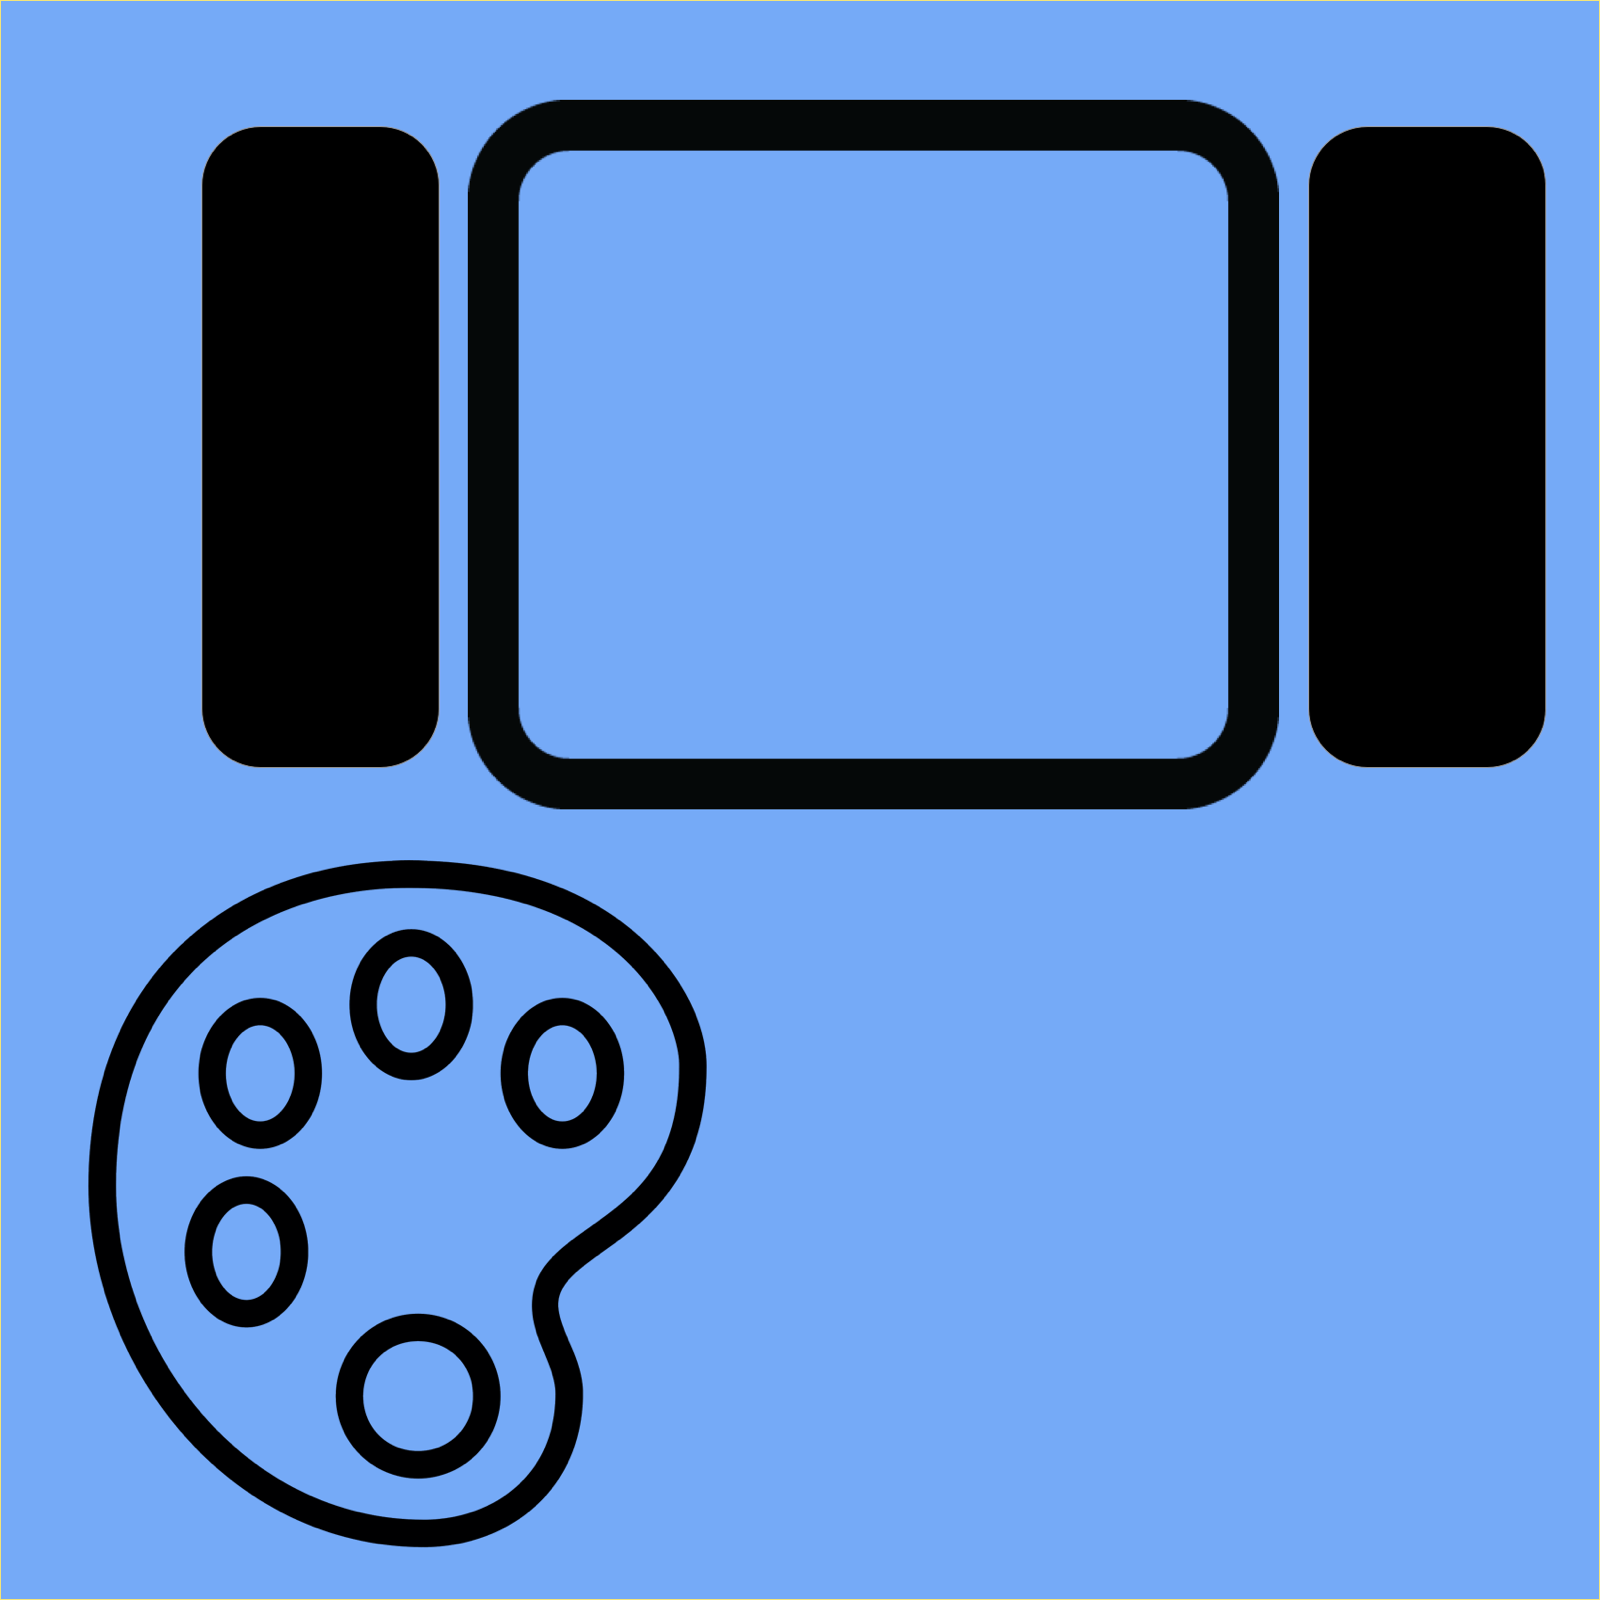
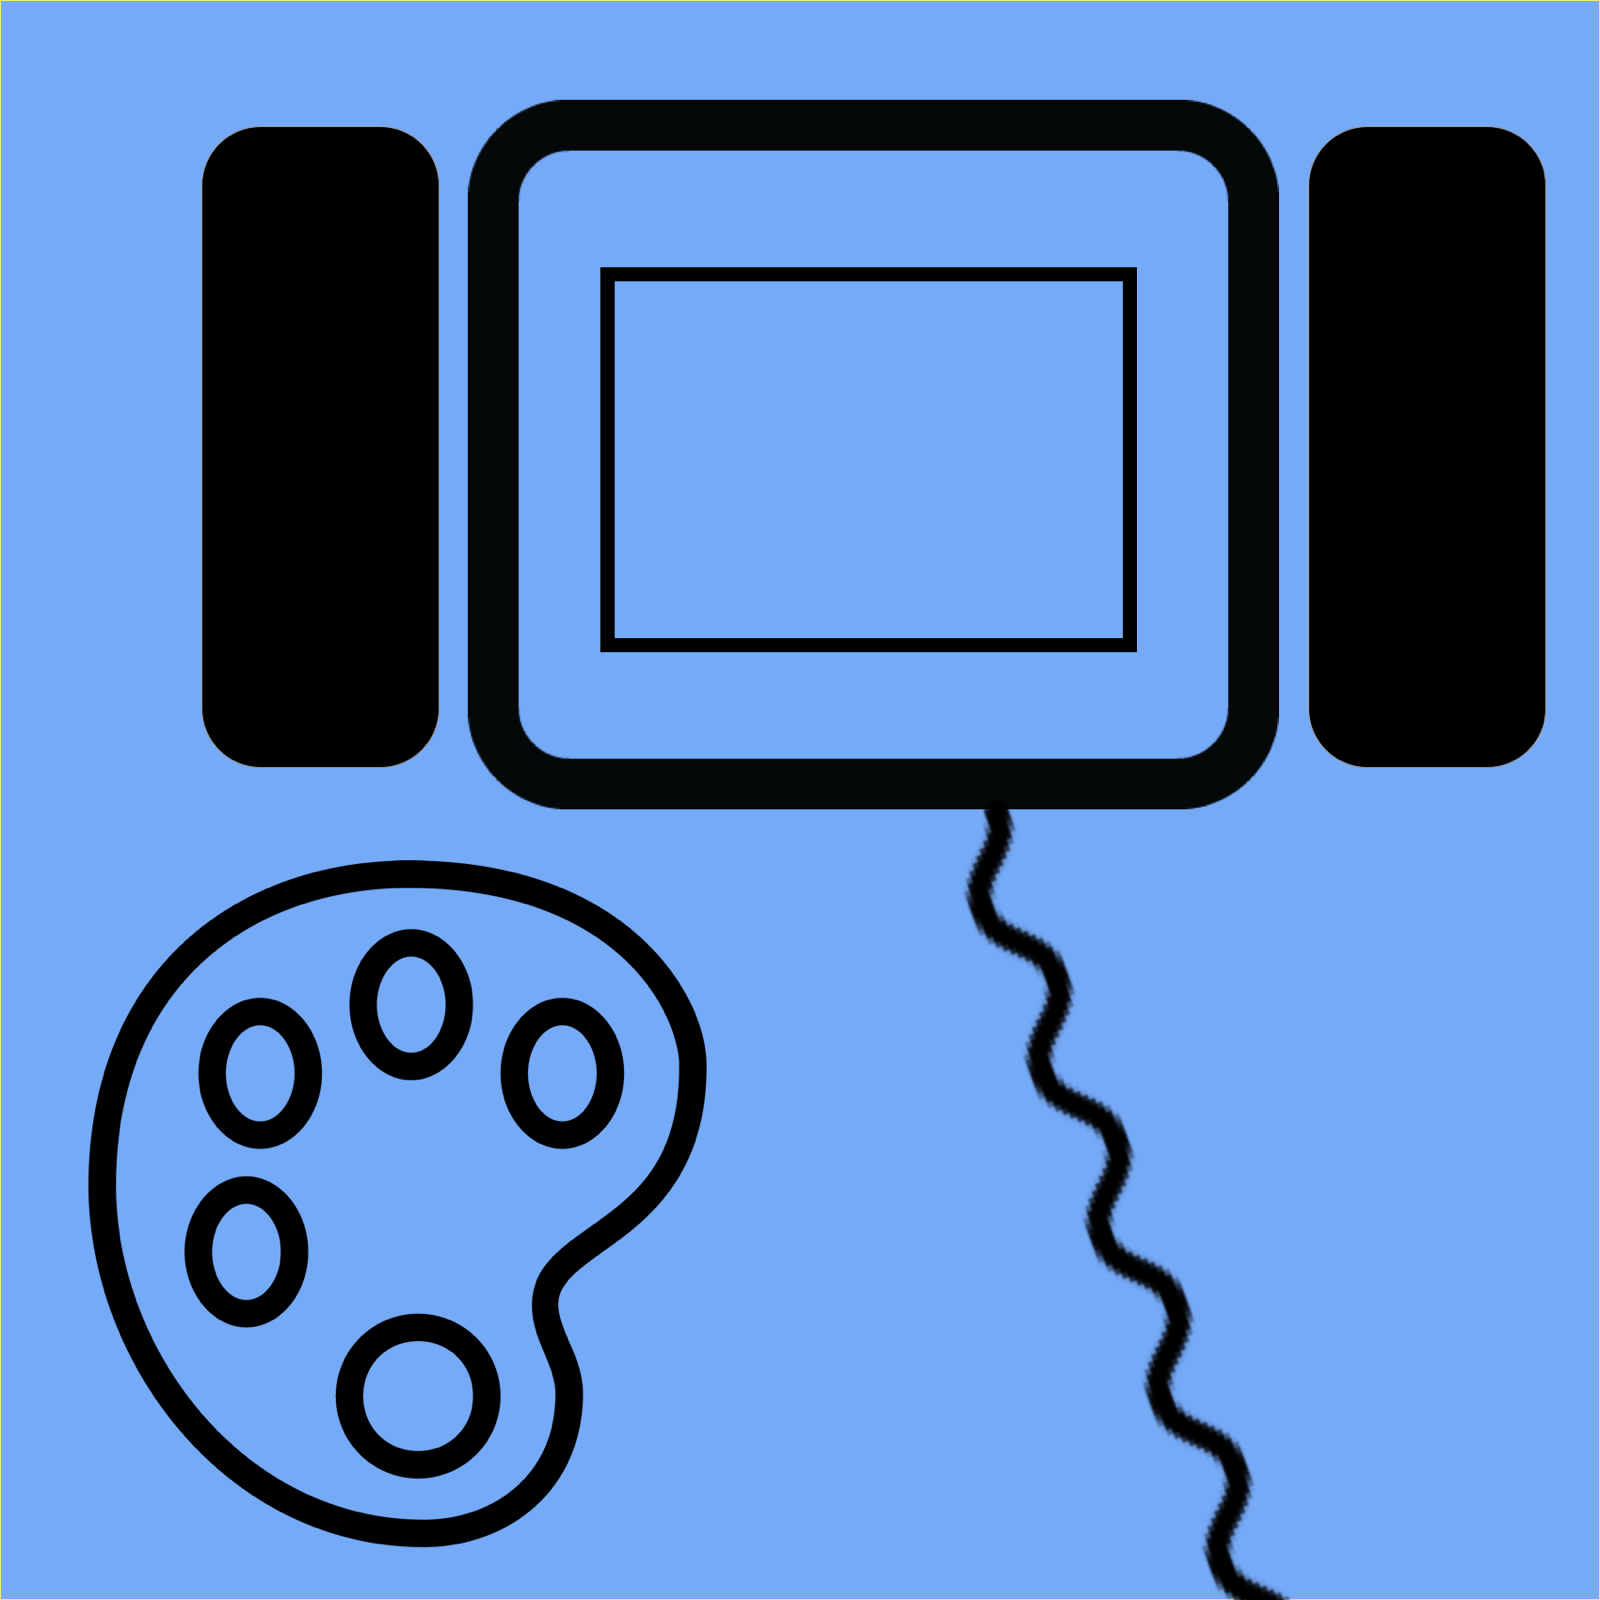
Update more posts

Changed region(s): [[0.375, 0.1562, 0.7188, 0.4062], [0.5938, 0.5, 0.8125, 1.0]]

diff --git a/main.css b/main.css
@@ -88,9 +88,9 @@ body {
 
 
 .post-container .heading {
-  font-weight: bold;
+  font-size: 12px;
   font-family: 'Nunito Sans', sans-serif;
-  padding: 32px;
+  padding: 24px;
   color: grey;
 }
 
